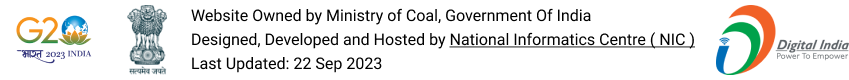
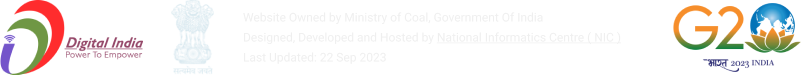
feat: dark mode

Changed region(s): [[0.0, 0.0, 1.0, 1.0], [0.2169, 0.9333, 0.2478, 0.96]]

diff --git a/frontend/src/screens/Dashboard.jsx b/frontend/src/screens/Dashboard.jsx
@@ -48,7 +48,7 @@ const Dashboard = () => {
     <div className="bg-main">
       <div className="flex flex-col justify-between items-center h-[90vh]">
         <div className="flex flex-col justify-between items-center gap-5 mt-10">
-          <img src="/header.png" className="w-[30vw]" />
+        <img src="/header.svg" className="w-[25vw]" />
           <div className="flex flex-row justify-center items-center gap-16">
             <div>
               <div className="flex flex-col justify-between items-center gap-10">
@@ -89,15 +89,15 @@ const Dashboard = () => {
                 size="lg"
                 onClick={() => navigate("/")}
               >
-                <h1 className="text-white text-xl font-semibold">
+                <h1 className="text-xl font-semibold">
                   Generate Analysis
                 </h1>
               </Button>
             </div>
             <div className="h-full relative">
-              <span className="h-full w-[2px] bg-[#cfcfcf] absolute"></span>
+              <span className="h-full w-[2px] bg-[#505050] absolute"></span>
               <div className="h-full font-semibold absolute translate-y-[45%] -translate-x-1/2">
-                <h1 className="text-2xl bg-white p-2">OR</h1>
+                <h1 className="text-2xl text-[#505050] bg-[#27272a] p-2">OR</h1>
               </div>
             </div>
             <div className="h-full w-[20vw] border-1 border-[#cbcbcb] rounded-2xl border-dashed flex justify-center items-center">
@@ -116,7 +116,7 @@ const Dashboard = () => {
                   className="opacity-0 absolute w-full h-full z-50"
                   accept="json"
                 />
-                <h1 className="text-[#303030] text-lg font-semibold" startContent={<UploadFileIcon/>}>Import GeoJson</h1>
+                <h1 className="text-[#efefef] text-lg font-semibold" startContent={<UploadFileIcon/>}>Import GeoJson</h1>
               </Button>
             </div>
           </div>

diff --git a/frontend/src/screens/Login.jsx b/frontend/src/screens/Login.jsx
@@ -9,7 +9,7 @@ const Login = () => {
     <div className="bg-main">
       <div className="flex flex-col justify-between items-center h-[90vh]">
         <div className="flex flex-col justify-between items-center gap-5">
-          <img src="/header.png" className="w-[30vw]" />
+          <img src="/header.svg" className="w-[25vw]" />
           <div className="flex flex-col justify-between items-center gap-10">
             <Input
               type="text"
@@ -42,7 +42,7 @@ const Login = () => {
             size="lg"
             onClick={() => navigate("/dashboard")}
           >
-            <h1 className="text-white text-xl font-semibold">Login</h1>
+            <h1 className="text-xl font-semibold">Login</h1>
           </Button>
         </div>
         <img src="/footer.png" className="w-[28vw]" />

diff --git a/frontend/src/main.jsx b/frontend/src/main.jsx
@@ -7,7 +7,9 @@ import { NextUIProvider } from "@nextui-org/react";
 ReactDOM.createRoot(document.getElementById("root")).render(
   <React.StrictMode>
     <NextUIProvider>
-      <App />
+      <main className="dark">
+        <App />
+      </main>
     </NextUIProvider>
   </React.StrictMode>
 );
